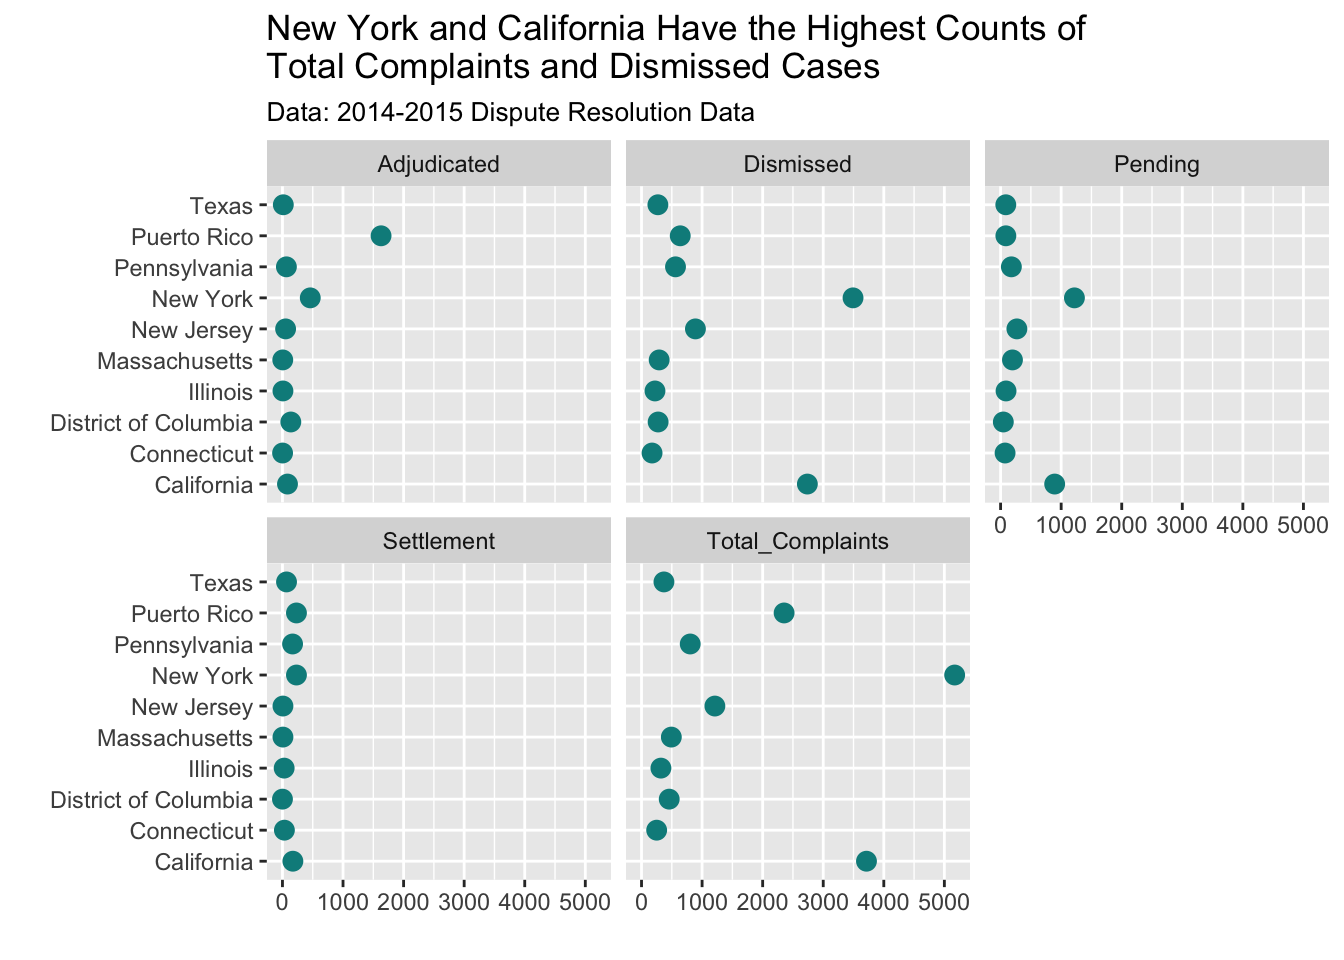
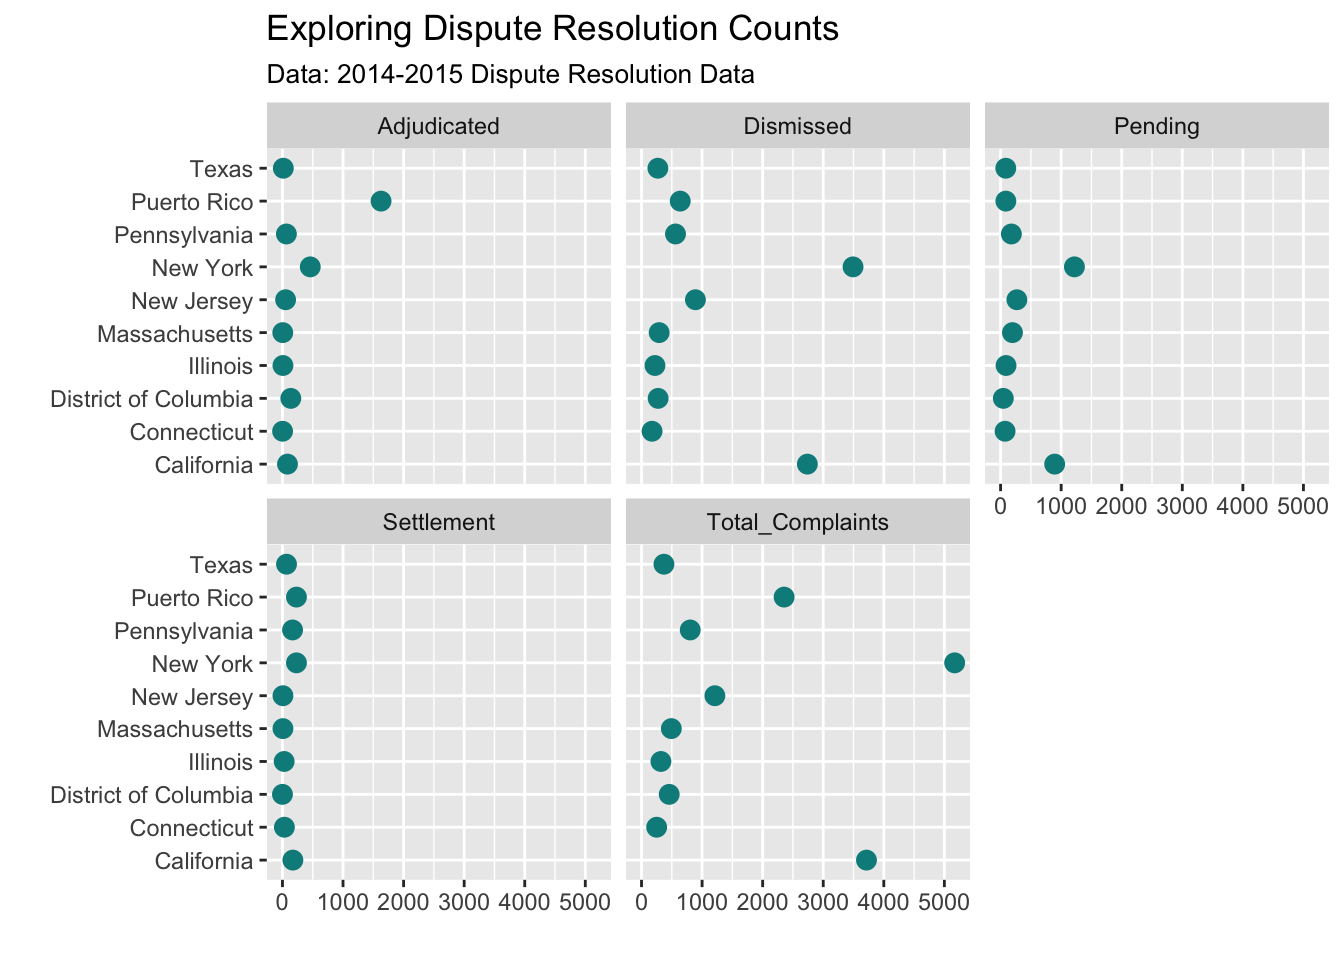
Edit plot title

Changed region(s): [[0.0312, 0.0, 1.0, 0.9062], [0.625, 0.25, 0.6562, 0.3438]]

diff --git a/content/post/2018-01-08-demonstration-cleaning-your-data.html b/content/post/2018-01-08-demonstration-cleaning-your-data.html
@@ -118,7 +118,7 @@ dr</code></pre>
   coord_flip() + 
   facet_wrap(~Category) + 
   labs(
-    title = &quot;New York and California Have the Highest Counts of \nTotal Complaints and Dismissed Cases&quot;,
+    title = &quot;Exploring Dispute Resolution Counts&quot;,
     subtitle = &quot;Data: 2014-2015 Dispute Resolution Data&quot;, 
     x = &quot;&quot;, 
     y = &quot;&quot;)</code></pre>
